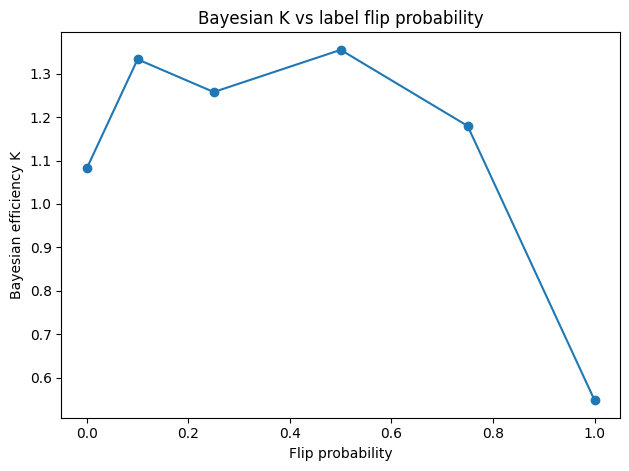
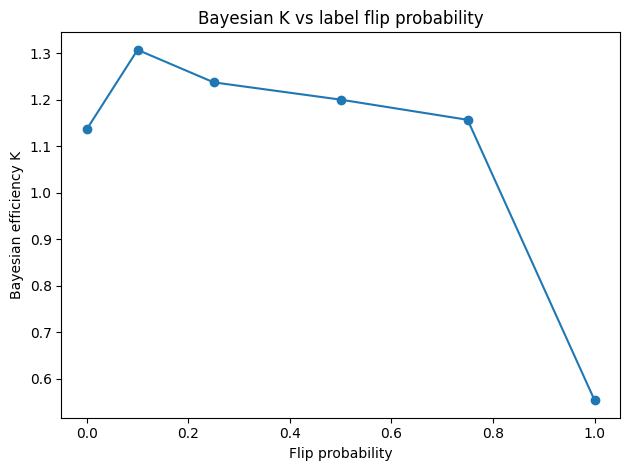
plots: fitted laws results

diff --git a/fit_llm_flip.py b/fit_llm_flip.py
@@ -240,13 +240,13 @@ def main():
     parser.add_argument(
         "--epochs",
         type=int,
-        default=50,
+        default=500,
         help="Number of epochs for scaling-law fits.",
     )
     parser.add_argument(
         "--patience",
         type=int,
-        default=5,
+        default=10,
         help="Early stopping patience for scaling-law fits.",
     )
     parser.add_argument(
